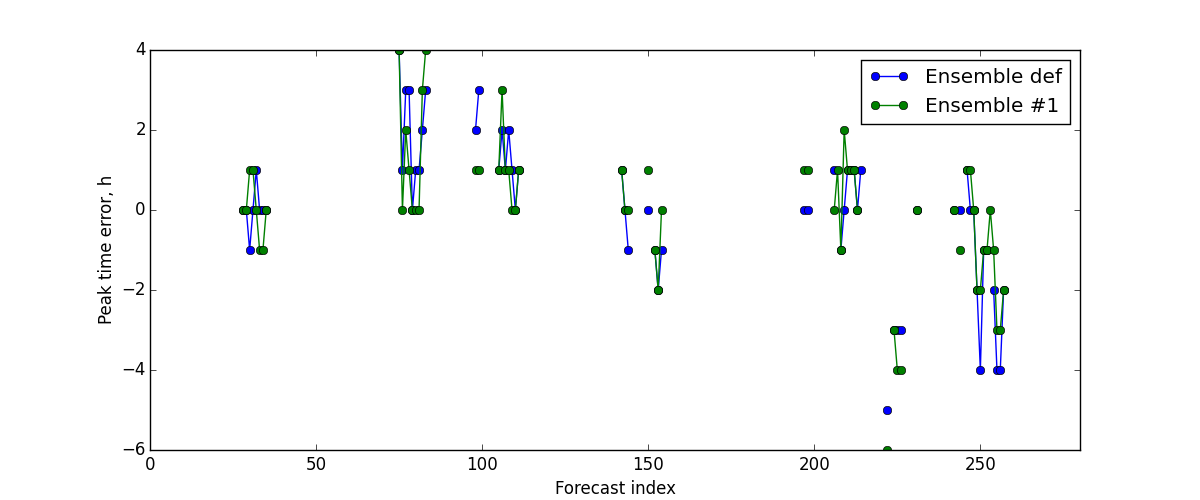
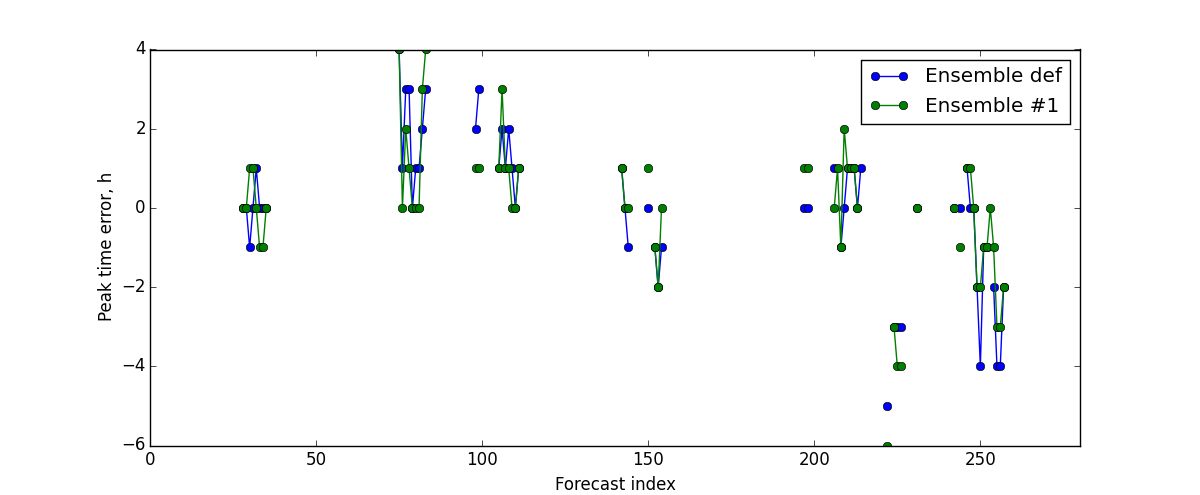
Fixed error counting

diff --git a/peaks-compare.py b/peaks-compare.py
@@ -61,15 +61,23 @@ def lse_coeff(fcs, start_index, stop_index, w):
     return np.linalg.solve(a, b)
 
 
-def forecast_peak_error(fc, msk_l):
-    msk_b = np.ones(len(fc), dtype=bool)
-    msk_b[msk_l] = 0
-    max_l_err = np.amax(fc, axis=1) - np.amax(m_fc, axis=1)
-    max_t_err = (np.argmax(fc, axis=1) - np.argmax(m_fc, axis=1)).astype(float)
-    msk_add = (max_l_err > 20) | (max_l_err < -20) | (max_t_err > 10) | (max_t_err < -10)
-    max_l_err[msk_b | msk_add] = np.nan
-    max_t_err[msk_b | msk_add] = np.nan
-    return np.vstack((max_t_err, max_l_err))
+def forecast_peak_error(test_fc, base_fc, base_peak_pos):
+    peak_pos_test = np.zeros(len(test_fc))
+    peak_pos_base = np.zeros(len(base_fc))
+    peak_level_test = np.zeros(len(base_fc))
+    peak_level_base = np.zeros(len(base_fc))
+    for i in range(len(test_fc)):
+        for j in range(len(test_fc[i])):
+            if (j > base_peak_pos[i] - 20) and (j < base_peak_pos[i] + 20):
+                if test_fc[i, j] > test_fc[i, peak_pos_test[i]]:
+                    peak_pos_test[i] = j
+                    peak_level_test[i] = test_fc[i, j]
+                if base_fc[i, j] > base_fc[i, peak_pos_base[i]]:
+                    peak_pos_base[i] = j
+                    peak_level_base[i] = base_fc[i, j]
+    l_err = peak_level_test - peak_level_base
+    t_err = (peak_pos_test - peak_pos_base).astype(float)
+    return np.vstack((t_err, l_err))
 
 
 def forecast_wmae(fc, pl):
@@ -259,97 +267,96 @@ fc_1 = np.full((N, T + 1), c[3])
 for src_i in range(3):
     fc_1 += src_set[src_i] * c[src_i]
 # peak tuning
-# for i in range(len(p_flt)):
-#     print("Forcing FC", p_flt[i, 0])
-#     fc_1[p_flt[i, 0]] = scale_peak_vertically(fc_1[p_flt[i, 0]], res_params_array[i])
+for i in range(len(p_flt)):
+    print("Forcing FC", p_flt[i, 0])
+    fc_1[p_flt[i, 0]] = scale_peak_vertically(fc_1[p_flt[i, 0]], res_params_array[i])
 indexRange = np.arange(N)
 
-plt.figure(1, figsize=(12, 5))
-plt.plot(indexRange, forecast_error(fc_def), indexRange, forecast_error(fc_1))
-plt.legend(['Ensemble def', 'Ensemble #1'])
-plt.title('Simple ensemble MAE')
-plt.xlabel('Forecast index')
-plt.ylabel('Forecast MAE, cm')
-plt.xlim([0, N - 1])
-plt.savefig('pics\\ensemble-1-mae-' + level_scale_flag_string + 't-scale-pl' + str(pLevel).zfill(3) + '.png')
-plt.close()
+peak_index = p_flt[:, 0].flatten().astype(int)
+peak_mask = np.zeros(len(m_fc), dtype=bool)
+peak_mask[peak_index] = 1
+fc_def_err = forecast_peak_error(fc_def[peak_mask], m_fc[peak_mask], res_params_array[:, 1].flatten())
+fc_1_err = forecast_peak_error(fc_1[peak_mask], m_fc[peak_mask], res_params_array[:, 1].flatten())
 
-plt.figure(1, figsize=(12, 5))
-plt.plot(indexRange, forecast_wmae(fc_def, pLevel), indexRange, forecast_wmae(fc_1, pLevel))
-plt.legend(['Ensemble def', 'Ensemble #1'])
-plt.title('Ensemble WMAE')
-plt.xlabel('Forecast index')
-plt.ylabel('WMAE (' + str(pLevel) + ' cm), cm')
-plt.xlim([0, N - 1])
-plt.savefig('pics\\ensemble-1-wmae-' + level_scale_flag_string + 't-scale-pl' + str(pLevel).zfill(3) + '.png')
-plt.close()
-
-plt.figure(1, figsize=(12, 5))
-fc_def_err = forecast_peak_error(fc_def, np.array(p_flt[:, 0]).flatten().astype(int))
-fc_1_err = forecast_peak_error(fc_1, np.array(p_flt[:, 0]).flatten().astype(int))
-plt.plot(indexRange, fc_def_err[0], 'o-')
-plt.plot(indexRange, fc_1_err[0], 'o-')
-plt.legend(['Ensemble def', 'Ensemble #1'])
-plt.xlabel('Forecast index')
-plt.ylabel('Peak time error, h')
-plt.xlim([0, N - 1])
-plt.savefig('pics\\ensemble-1-pet-' + level_scale_flag_string + 't-scale-pl' + str(pLevel).zfill(3) + '.png')
-plt.close()
-
-plt.figure(1, figsize=(12, 5))
-plt.plot(indexRange, fc_def_err[1], 'o-')
-plt.plot(indexRange, fc_1_err[1], 'o-')
-plt.legend(['Ensemble def', 'Ensemble #1'])
-plt.xlabel('Forecast index')
-plt.ylabel('Peak level error, cm')
-plt.xlim([0, N - 1])
-plt.savefig('pics\\ensemble-1-pel-' + level_scale_flag_string + 't-scale-pl' + str(pLevel).zfill(3) + '.png')
-plt.close()
-
-plt.figure(1, figsize=(8, 6))
-nan_filter = ~np.isnan(fc_def_err[1]) & ~np.isnan(fc_1_err[1])
-lim = [-30, 30]
-# gkde = gaussian_kde(fc_def_err[1][nan_filter])
-x = np.linspace(lim[0], lim[1], 100)
-# pdf = gkde(x)
-# plt.plot(x, pdf, linewidth=2, color='b')
-plt.hist(fc_def_err[1][nan_filter], histtype='step', normed=True, color='b')
-kde = KernelDensity(kernel='gaussian', bandwidth=2).fit(np.array(fc_def_err[1][nan_filter]).reshape(-1, 1))
-plt.plot(x, np.exp(kde.score_samples(x.reshape(-1, 1))), linewidth=2, color='b')
-# gkde = gaussian_kde(fc_1_err[1][nan_filter])
-# pdf = gkde(x)
-# plt.plot(x, pdf, linewidth=2, color='r')
-plt.hist(fc_1_err[1][nan_filter], histtype='step', normed=True, color='r')
-kde = KernelDensity(kernel='gaussian', bandwidth=2).fit(np.array(fc_1_err[1][nan_filter]).reshape(-1, 1))
-plt.plot(x, np.exp(kde.score_samples(x.reshape(-1, 1))), linewidth=2, color='r')
-plt.legend(['Ensemble def', 'Ensemble #1'])
-plt.xlabel('Peak level error, cm')
-plt.ylabel('PDF')
-plt.savefig('pics\\ensemble-1-pel-pdf-' + level_scale_flag_string + 't-scale-pl' + str(pLevel).zfill(3) + '.png')
-plt.close()
-
-plt.figure(1, figsize=(8, 6))
-nan_filter = ~np.isnan(fc_def_err[0]) & ~np.isnan(fc_1_err[0])
 print('Error def (T, L): ')
-print(np.mean(fc_def_err[:, nan_filter], axis=1))
+print(np.mean(fc_def_err, axis=1))
 print('Error 1 (T, L): ')
-print(np.mean(fc_1_err[:, nan_filter], axis=1))
-lim = [-10, 10]
+print(np.mean(fc_1_err, axis=1))
+
+
+# plt.figure(1, figsize=(12, 5))
+# plt.plot(indexRange, forecast_error(fc_def), indexRange, forecast_error(fc_1))
+# plt.legend(['Ensemble def', 'Ensemble #1'])
+# plt.title('Simple ensemble MAE')
+# plt.xlabel('Forecast index')
+# plt.ylabel('Forecast MAE, cm')
+# plt.xlim([0, N - 1])
+# plt.savefig('pics\\ensemble-1-mae-' + level_scale_flag_string + 't-scale-pl' + str(pLevel).zfill(3) + '.png')
+# plt.close()
+
+# plt.figure(1, figsize=(12, 5))
+# plt.plot(indexRange, forecast_wmae(fc_def, pLevel), indexRange, forecast_wmae(fc_1, pLevel))
+# plt.legend(['Ensemble def', 'Ensemble #1'])
+# plt.title('Ensemble WMAE')
+# plt.xlabel('Forecast index')
+# plt.ylabel('WMAE (' + str(pLevel) + ' cm), cm')
+# plt.xlim([0, N - 1])
+# plt.savefig('pics\\ensemble-1-wmae-' + level_scale_flag_string + 't-scale-pl' + str(pLevel).zfill(3) + '.png')
+# plt.close()
+
+# plt.figure(1, figsize=(12, 5))
+# plt.plot(indexRange, fc_def_err[0], 'o-')
+# plt.plot(indexRange, fc_1_err[0], 'o-')
+# plt.legend(['Ensemble def', 'Ensemble #1'])
+# plt.xlabel('Forecast index')
+# plt.ylabel('Peak time error, h')
+# plt.xlim([0, N - 1])
+# plt.savefig('pics\\ensemble-1-pet-' + level_scale_flag_string + 't-scale-pl' + str(pLevel).zfill(3) + '.png')
+# plt.close()
+
+# plt.figure(1, figsize=(12, 5))
+# plt.plot(indexRange, fc_def_err[1], 'o-')
+# plt.plot(indexRange, fc_1_err[1], 'o-')
+# plt.legend(['Ensemble def', 'Ensemble #1'])
+# plt.xlabel('Forecast index')
+# plt.ylabel('Peak level error, cm')
+# plt.xlim([0, N - 1])
+# plt.savefig('pics\\ensemble-1-pel-' + level_scale_flag_string + 't-scale-pl' + str(pLevel).zfill(3) + '.png')
+# plt.close()
+
+# plt.figure(1, figsize=(8, 6))
+# nan_filter = ~np.isnan(fc_def_err[1]) & ~np.isnan(fc_1_err[1])
+# lim = [-30, 30]
+# x = np.linspace(lim[0], lim[1], 100)
+# plt.hist(fc_def_err[1][nan_filter], histtype='step', normed=True, color='b')
+# kde = KernelDensity(kernel='gaussian', bandwidth=2).fit(np.array(fc_def_err[1][nan_filter]).reshape(-1, 1))
+# plt.plot(x, np.exp(kde.score_samples(x.reshape(-1, 1))), linewidth=2, color='b')
+# plt.hist(fc_1_err[1][nan_filter], histtype='step', normed=True, color='r')
+# kde = KernelDensity(kernel='gaussian', bandwidth=2).fit(np.array(fc_1_err[1][nan_filter]).reshape(-1, 1))
+# plt.plot(x, np.exp(kde.score_samples(x.reshape(-1, 1))), linewidth=2, color='r')
+# plt.legend(['Ensemble def', 'Ensemble #1'])
+# plt.xlabel('Peak level error, cm')
+# plt.ylabel('PDF')
+# plt.savefig('pics\\ensemble-1-pel-pdf-' + level_scale_flag_string + 't-scale-pl' + str(pLevel).zfill(3) + '.png')
+# plt.close()
+
+# plt.figure(1, figsize=(8, 6))
+# nan_filter = ~np.isnan(fc_def_err[0]) & ~np.isnan(fc_1_err[0])
+# print('Error def (T, L): ')
+# print(np.mean(fc_def_err[:, nan_filter], axis=1))
+# print('Error 1 (T, L): ')
+# print(np.mean(fc_1_err[:, nan_filter], axis=1))
+# lim = [-10, 10]
 # gkde = gaussian_kde(fc_def_err[0][nan_filter])
-x = np.linspace(lim[0], lim[1], 100)
-# pdf = gkde(x)
-# plt.plot(x, pdf, linewidth=2, color='b')
-plt.hist(fc_def_err[0][nan_filter], histtype='step', normed=True, color='b')
-kde = KernelDensity(kernel='gaussian', bandwidth=0.5).fit(np.array(fc_def_err[0][nan_filter]).reshape(-1, 1))
-plt.plot(x, np.exp(kde.score_samples(x.reshape(-1, 1))), linewidth=2, color='b')
-# gkde = gaussian_kde(fc_1_err[0][nan_filter])
-# pdf = gkde(x)
-# plt.plot(x, pdf, linewidth=2, color='r')
-plt.hist(fc_1_err[0][nan_filter], histtype='step', normed=True, color='r')
-kde = KernelDensity(kernel='gaussian', bandwidth=0.5).fit(np.array(fc_1_err[0][nan_filter]).reshape(-1, 1))
-plt.plot(x, np.exp(kde.score_samples(x.reshape(-1, 1))), linewidth=2, color='r')
-plt.legend(['Ensemble def', 'Ensemble #1'])
-plt.xlabel('Peak time error, h')
-plt.ylabel('PDF')
-plt.savefig('pics\\ensemble-1-pet-pdf-' + level_scale_flag_string + 't-scale-pl' + str(pLevel).zfill(3) + '.png')
-plt.close()
+# x = np.linspace(lim[0], lim[1], 100)
+# plt.hist(fc_def_err[0][nan_filter], histtype='step', normed=True, color='b')
+# kde = KernelDensity(kernel='gaussian', bandwidth=0.5).fit(np.array(fc_def_err[0][nan_filter]).reshape(-1, 1))
+# plt.plot(x, np.exp(kde.score_samples(x.reshape(-1, 1))), linewidth=2, color='b')
+# plt.hist(fc_1_err[0][nan_filter], histtype='step', normed=True, color='r')
+# kde = KernelDensity(kernel='gaussian', bandwidth=0.5).fit(np.array(fc_1_err[0][nan_filter]).reshape(-1, 1))
+# plt.plot(x, np.exp(kde.score_samples(x.reshape(-1, 1))), linewidth=2, color='r')
+# plt.legend(['Ensemble def', 'Ensemble #1'])
+# plt.xlabel('Peak time error, h')
+# plt.ylabel('PDF')
+# plt.savefig('pics\\ensemble-1-pet-pdf-' + level_scale_flag_string + 't-scale-pl' + str(pLevel).zfill(3) + '.png')
+# plt.close()
